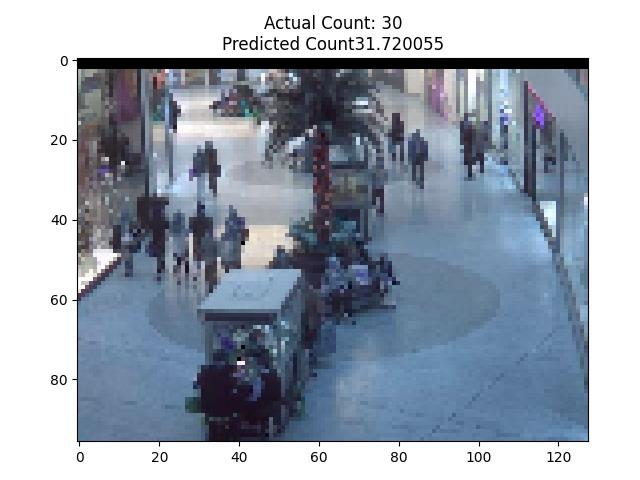
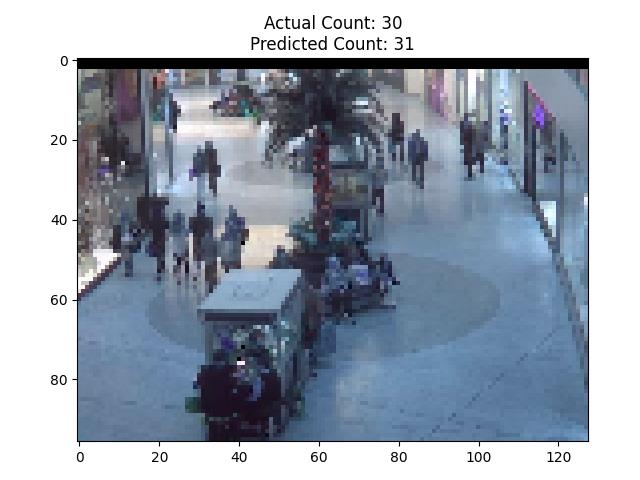
Final

Changed region(s): [[0.3438, 0.0625, 0.6875, 0.125]]

diff --git a/Wenyu Zeng/resnet50_test.py b/Wenyu Zeng/resnet50_test.py
@@ -108,5 +108,5 @@ print(test_labels)
 
 plt.imshow(x_test[2])
 plt.title('Actual Count: ' + str(test_labels[2]) +
-          '\nPredicted Count' + str(test_pred[2]))
+          '\nPredicted Count: ' + str(int(test_pred[2])))
 plt.show()
